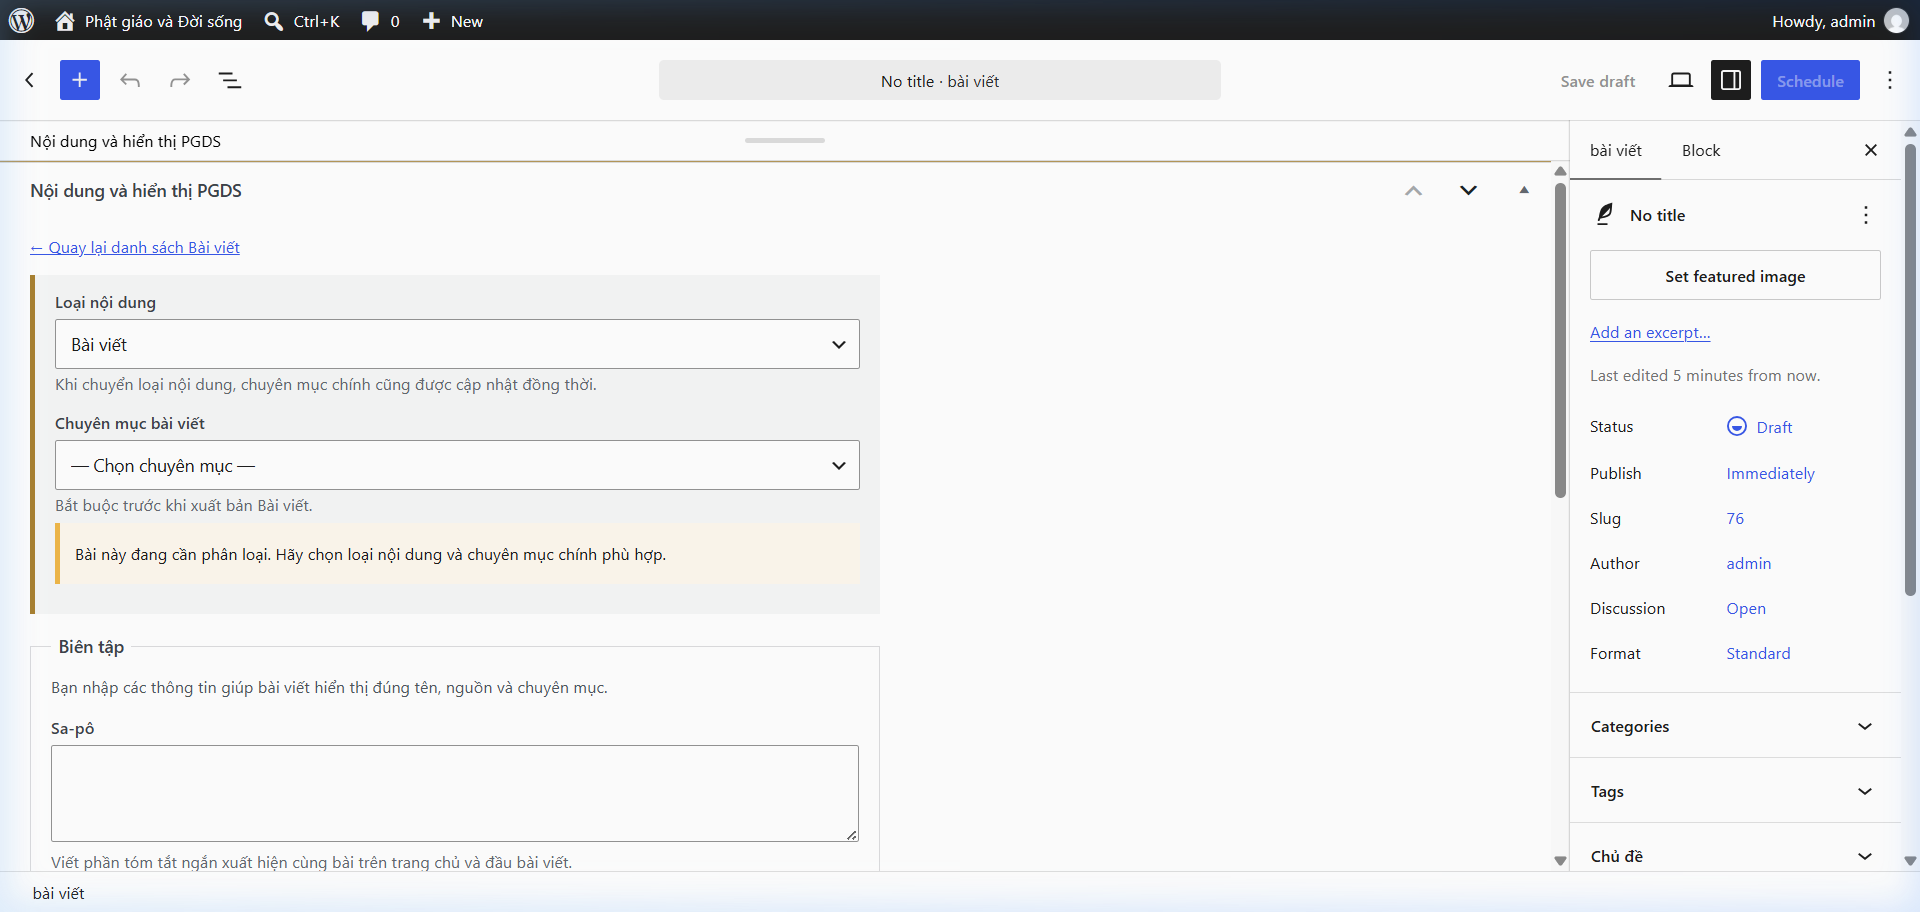
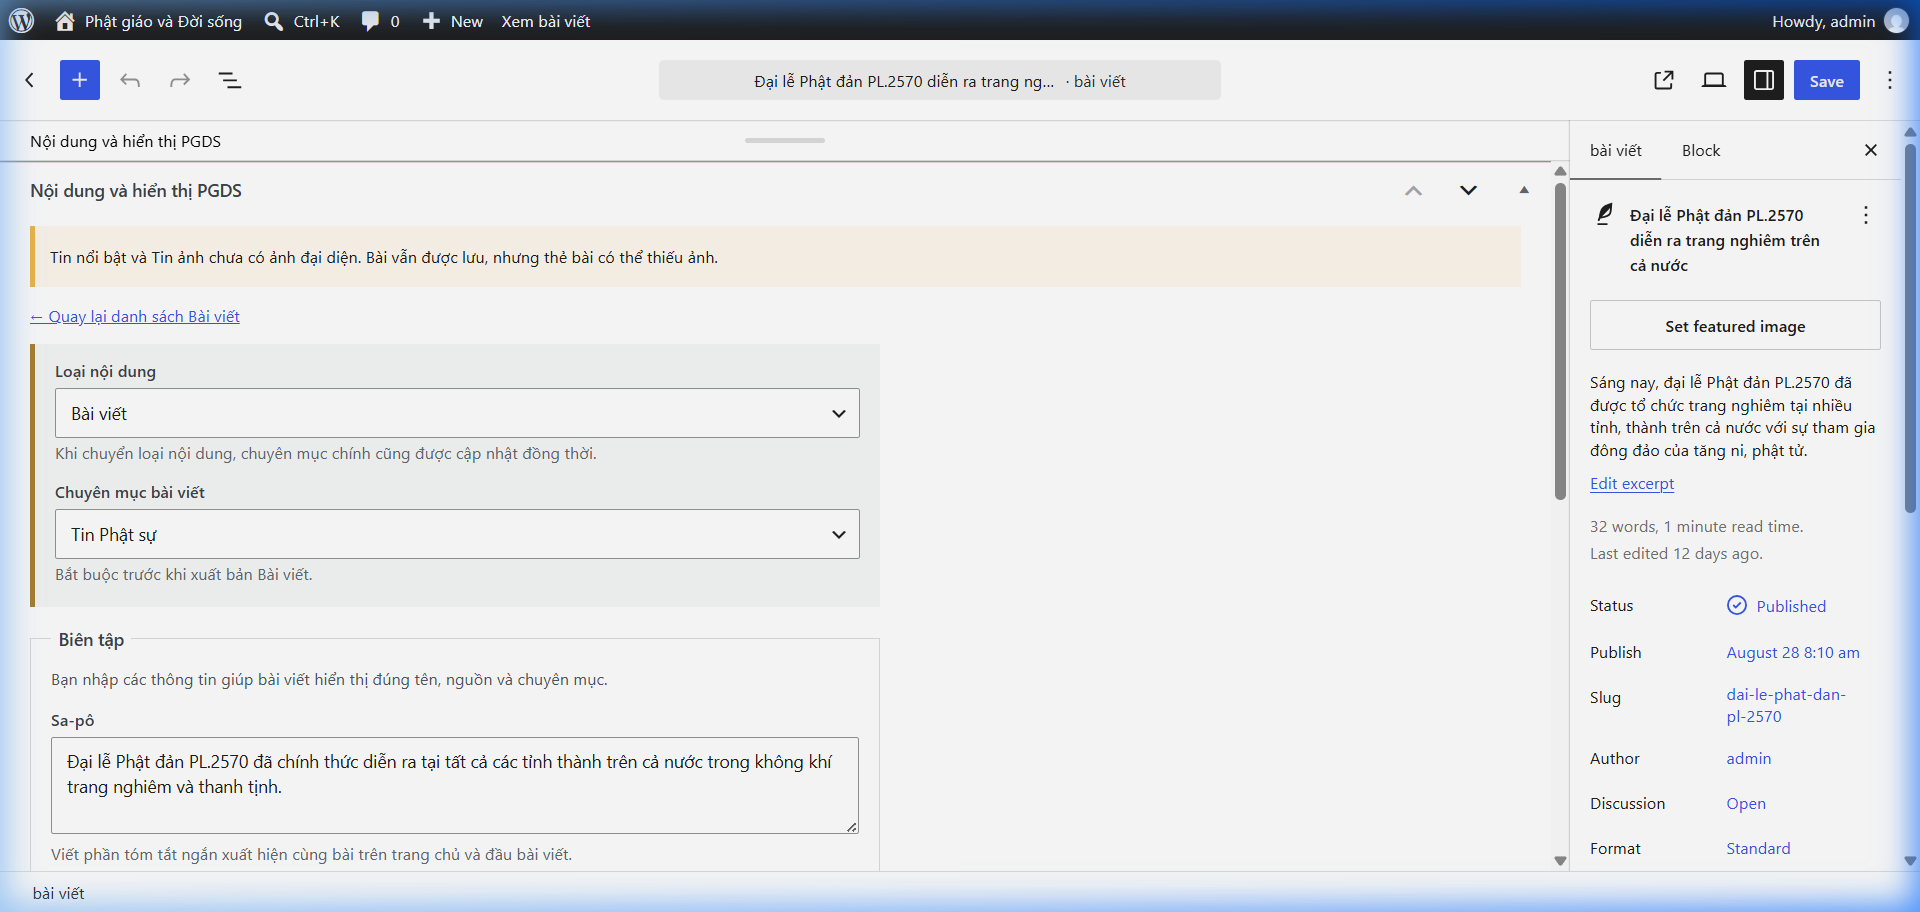
docs: update editor screenshots with fully populated sample post titles, sapo, youtube links and emagazine blocks

diff --git a/tools/check-sample-posts.php b/tools/check-sample-posts.php
@@ -1,0 +1,40 @@
+<?php
+require '/var/www/html/wp-load.php';
+
+// Post 4: Article
+update_post_meta( 4, '_pgds_sapo', 'Đại lễ Phật đản PL.2570 đã chính thức diễn ra tại tất cả các tỉnh thành trên cả nước trong không khí trang nghiêm và thanh tịnh.' );
+update_post_meta( 4, '_pgds_author_name', 'Biên tập viên Minh Anh' );
+
+// Post 10: Video
+update_post_meta( 10, '_pgds_sapo', 'Phim tài liệu ghi lại toàn cảnh Đại lễ Phật đản PL.2570 với hàng ngàn chư tôn đức tăng ni và Phật tử tham dự.' );
+update_post_meta( 10, '_pgds_author_name', 'Truyền hình Phật giáo PGDS' );
+update_post_meta( 10, '_pgds_youtube_id', 'https://www.youtube.com/watch?v=IDrb0rGinII' );
+update_post_meta( 10, '_pgds_video_duration', '05:30' );
+
+// Post 71: E-magazine
+update_post_meta( 71, '_pgds_sapo', 'Tác phẩm E-magazine đặc biệt điều tra về các hình thức lừa đảo trực tuyến và giải pháp phòng tránh dành cho Phật tử và người dân.' );
+update_post_meta( 71, '_pgds_author_name', 'Nhóm Phóng viên Thực hiện' );
+
+// Insert Gutenberg E-magazine blocks into Post 71 content if empty
+$emagazine_blocks = '<!-- wp:paragraph {"className":"is-style-default"} -->
+<p>Trong thời đại công nghệ số phát triển mạnh mẽ, các hình thức lừa đảo trực tuyến ngày càng trở nên tinh vi hơn bao giờ hết...</p>
+<!-- /wp:paragraph -->
+
+<!-- wp:group {"align":"wide","className":"pgds-emagazine-chapter"} -->
+<div class="wp-block-group alignwide pgds-emagazine-chapter"><p class="pgds-emagazine-chapter__number">Chương 01</p><h2 class="wp-block-heading">Bẫy lừa đảo mạng xã hội</h2></div>
+<!-- /wp:group -->
+
+<!-- wp:quote {"align":"wide","className":"is-style-plain pgds-emagazine-pull-quote"} -->
+<blockquote class="wp-block-quote alignwide is-style-plain pgds-emagazine-pull-quote"><p>"Tâm bình thì thế giới bình, tỉnh giác trước mọi cạm bẫy ảo trên mạng xã hội."</p><cite>Thượng tọa Thích Thanh Từ</cite></blockquote>
+<!-- /wp:quote -->
+
+<!-- wp:image {"align":"wide","sizeSlug":"full"} -->
+<figure class="wp-block-image alignwide size-full"><figcaption class="wp-element-caption">Hình ảnh minh họa tác phẩm E-magazine — Ảnh: Ban Biên Tập</figcaption></figure>
+<!-- /wp:image -->';
+
+wp_update_post( array(
+	'ID'           => 71,
+	'post_content' => $emagazine_blocks,
+) );
+
+echo "Sample post metadata updated successfully!\n";

diff --git a/tools/seed-demo.php b/tools/seed-demo.php
@@ -1,8 +1,12 @@
 <?php
 /**
  * Seed additional demo posts to fill all 11 blocks (idempotent by _pgds_source_id = 'demo-*').
- * Run: wp eval-file /tools/seed-demo.php
+ * Run: php /var/www/html/.pgds-tools/seed-demo.php
  */
+
+if ( ! defined( 'ABSPATH' ) ) {
+	require_once '/var/www/html/wp-load.php';
+}
 
 $plan = array(
 	// category_slug => [number of additional posts, title prefix]
@@ -64,4 +68,8 @@ foreach ( $plan as $cat_slug => $spec ) {
 	}
 }
 
-WP_CLI::success( "Demo seed complete. Created {$created} additional posts." );
+if ( class_exists( 'WP_CLI' ) ) {
+	WP_CLI::success( "Demo seed complete. Created {$created} additional posts." );
+} else {
+	echo "Demo seed complete. Created {$created} additional posts.\n";
+}

diff --git a/tools/list-posts.php b/tools/list-posts.php
@@ -1,0 +1,12 @@
+<?php
+require '/var/www/html/wp-load.php';
+
+$posts = get_posts( array(
+	'numberposts' => 50,
+	'post_status' => 'publish',
+) );
+
+foreach ( $posts as $p ) {
+	$surface = pgds_current_editorial_surface( $p->ID );
+	echo "ID: {$p->ID} | Surface: {$surface} | Title: {$p->post_title}\n";
+}
